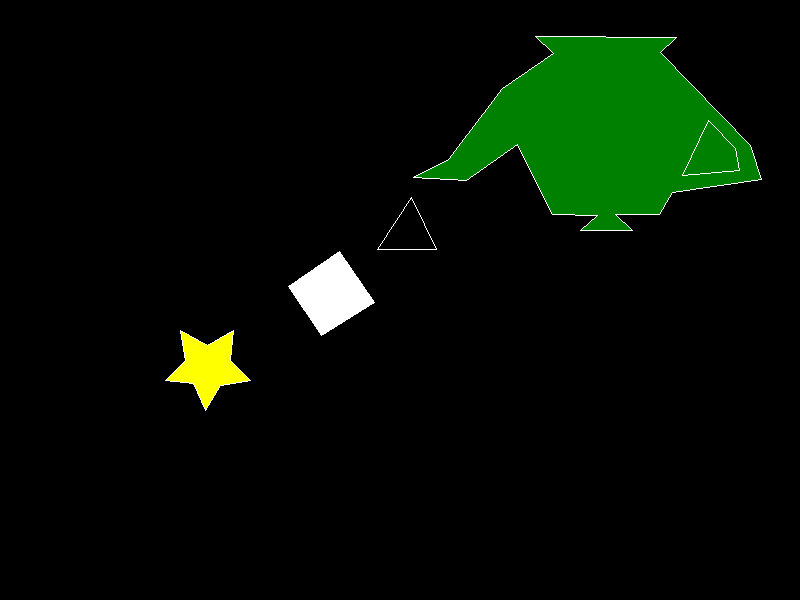
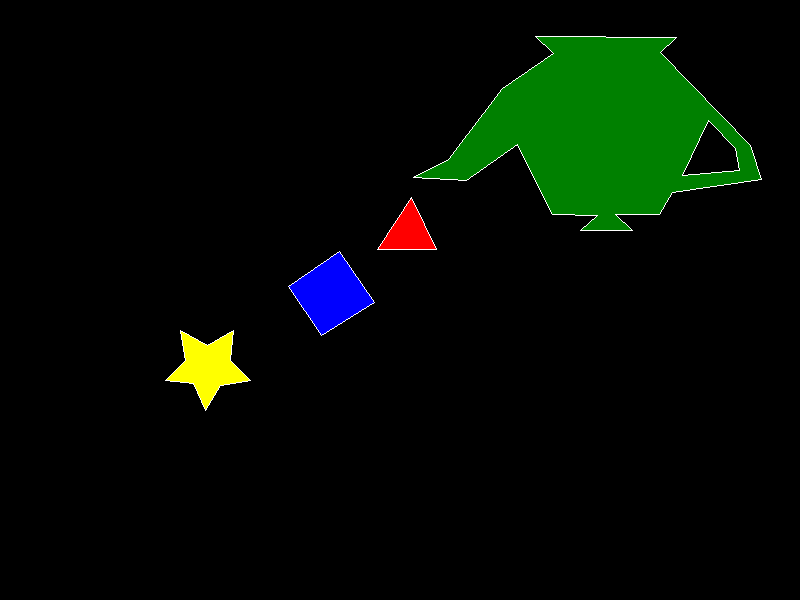
remove unused imports

Changed region(s): [[0.3438, 0.42, 0.4688, 0.57], [0.8438, 0.21, 0.9375, 0.3], [0.4688, 0.33, 0.5625, 0.42]]

diff --git a/src/main.rs b/src/main.rs
@@ -2,9 +2,8 @@ mod framebuffer;
 mod line;
 mod polygon;
 
-use raylib::{ffi::RaylibPalette, prelude::*};
+use raylib::prelude::*;
 use framebuffer::Framebuffer;
-use line::line;
 use polygon::Polygon;
 
 fn main() {
@@ -41,7 +40,7 @@ fn main() {
     ];
 
     let poligono_2 = Polygon::new(poligono_2);
-    poligono_2.fill(&mut framebuffer, Color::WHITE);
+    poligono_2.fill(&mut framebuffer, Color::BLUE);
     poligono_2.draw_outline(&mut framebuffer, Color::WHITE);
 
     // (377, 249) (411, 197) (436, 249)
@@ -53,8 +52,8 @@ fn main() {
     ];
 
     let poligono_3 = Polygon::new(poligono_3);
+    poligono_3.fill(&mut framebuffer, Color::RED);
     poligono_3.draw_outline(&mut framebuffer, Color::WHITE);
-    // poligono_3.fill(&mut framebuffer, Color::WHITE);
     
     // (413, 177) (448, 159) (502, 88) (553, 53) (535, 36) (676, 37) (660, 52)
     // (750, 145) (761, 179) (672, 192) (659, 214) (615, 214) (632, 230) (580, 230)
@@ -84,6 +83,7 @@ fn main() {
     let poligono_4 = Polygon::new(poligono_4);
     poligono_4.fill(&mut framebuffer, Color::GREEN);
     poligono_4.draw_outline(&mut framebuffer, Color::WHITE);
+    
 
     
     
@@ -97,8 +97,8 @@ fn main() {
     ];
 
     let poligono_5 = Polygon::new(poligono_5);
+    poligono_5.fill(&mut framebuffer, Color::BLACK);
     poligono_5.draw_outline(&mut framebuffer, Color::WHITE);
-    // poligono_5.fill(&mut framebuffer, Color::WHITE);
 
 
     framebuffer.render_to_file("output.png");

diff --git a/src/polygon.rs b/src/polygon.rs
@@ -28,8 +28,8 @@ impl Polygon {
 
         framebuffer.set_current_color(color);
 
-        let mut min_y = f32::MAX;
-        let mut max_y = f32::MIN;
+        let mut min_y: f32 = f32::MAX;
+        let mut max_y: f32 = f32::MIN;
 
         for v in &self.vertices {
             if v.y < min_y { min_y = v.y; }